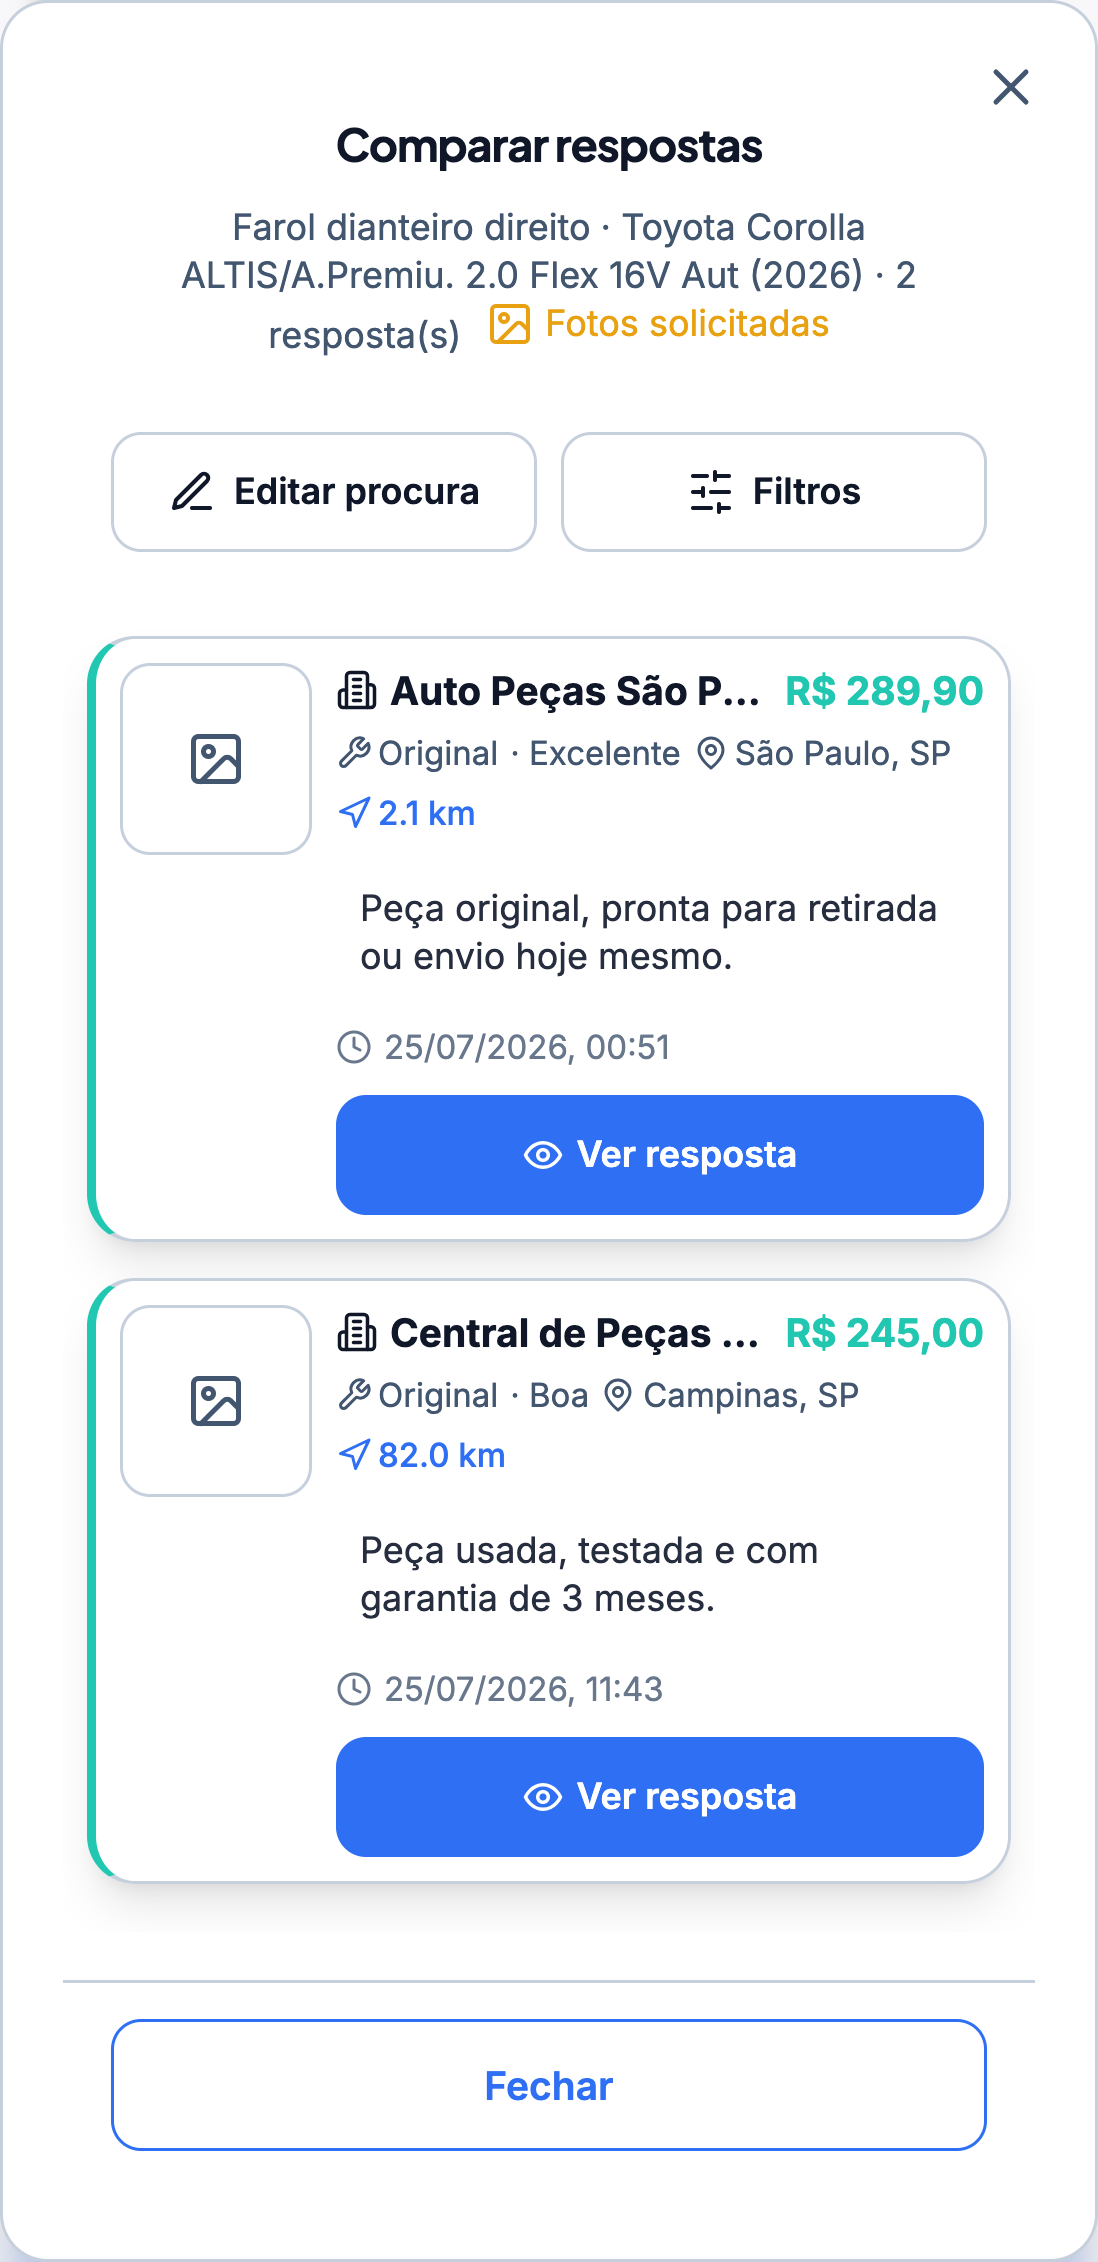
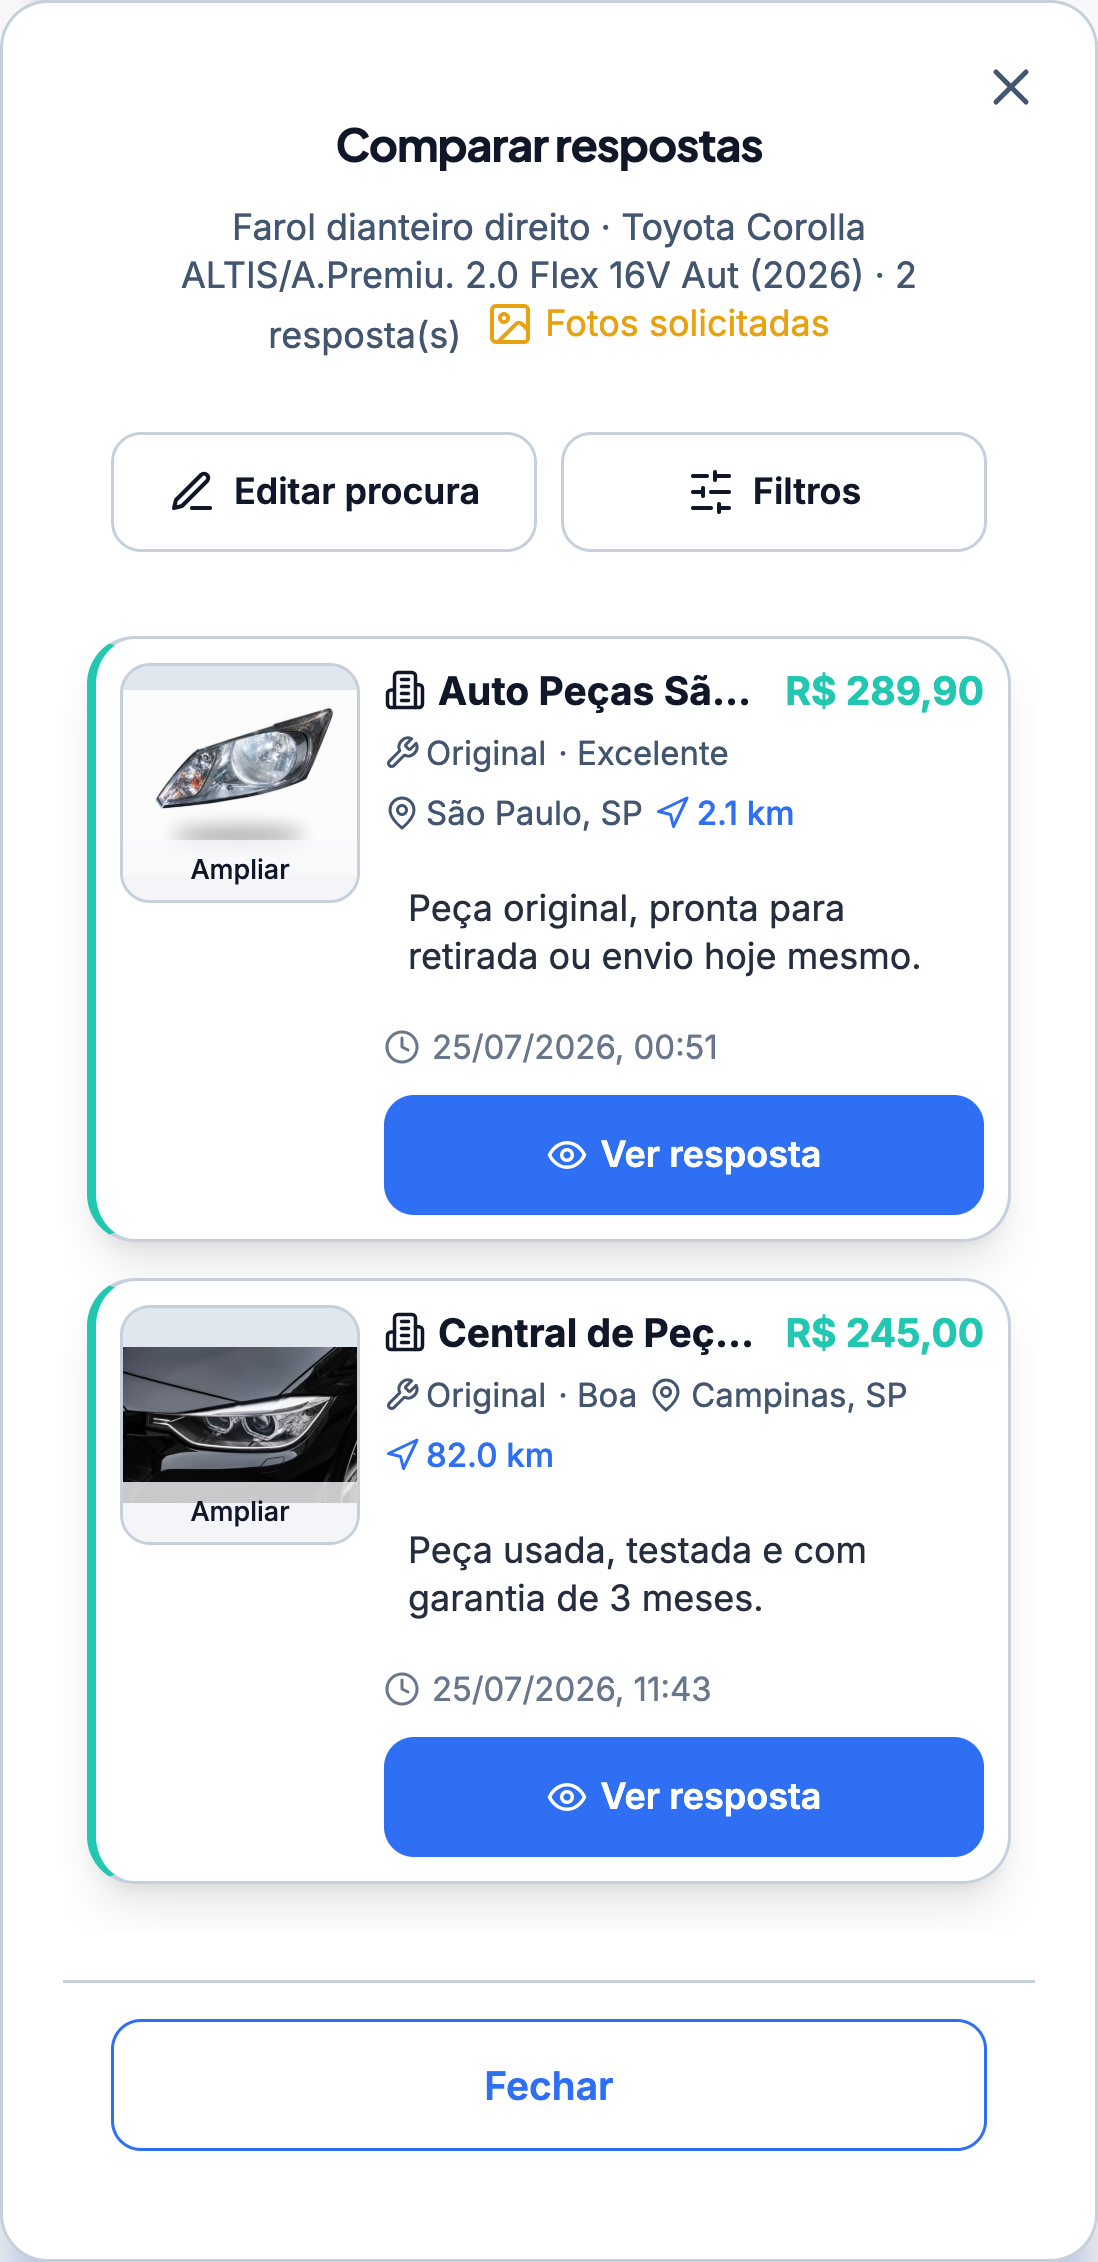
Add real part photos to compare-responses mockup, match mockup dimensions
Replaced the empty gray placeholder icons in the buyer-compare-responses
screenshot with real headlight photos (licensed Adobe Stock, free tier,
uploaded to the same part-photos Supabase bucket the app uses for real
photos), matching the demo procura ("Farol dianteiro direito"). Re-ran
the Playwright capture against the live app so the mockup PNG shows the
photos actually rendered in the ResponseModal UI, not composited after
the fact.

Fixed a real responsive-design bug in DeviceMockup: border width, corner
radius, and notch/title-bar sizing were fixed px values inside
percentage-width containers, so the smaller "secondary" mockup in each
pair looked like a different, chunkier device instead of a scaled twin.
Verified proportional consistency was near-identical after adding a
size="sm" variant, but since the two mockups in each pair are now meant
to read as equals, went further per follow-up feedback: both mockups in
each pair use the same width and the default size, so their rendered
dimensions are pixel-identical, not just proportionally close.

diff --git a/src/components/landing/DeviceMockup.jsx b/src/components/landing/DeviceMockup.jsx
@@ -1,24 +1,41 @@
 import React from 'react';
 import { cn } from '@/lib/utils';
 
-export const PhoneMockup = ({ src, alt, className }) => (
+export const PhoneMockup = ({ src, alt, size = 'lg', className }) => (
   <div className={cn('relative mx-auto w-full max-w-[220px] sm:max-w-[240px]', className)}>
-    <div className="relative rounded-[2rem] border-[6px] border-foreground/90 bg-foreground/90 p-1.5 shadow-xl">
-      <div className="absolute left-1/2 top-2 z-10 h-1.5 w-12 -translate-x-1/2 rounded-full bg-foreground/60" aria-hidden="true" />
-      <div className="aspect-[9/19.3] w-full overflow-hidden rounded-[1.5rem] bg-background">
+    <div
+      className={cn(
+        'relative bg-foreground/90',
+        size === 'lg'
+          ? 'rounded-[2rem] border-[6px] p-1.5'
+          : 'rounded-[1.4rem] border-[4px] p-1',
+        'border-foreground/90 shadow-xl',
+      )}
+    >
+      <div
+        className={cn(
+          'absolute left-1/2 top-2 z-10 -translate-x-1/2 rounded-full bg-foreground/60',
+          size === 'lg' ? 'h-1.5 w-12' : 'h-1 w-8',
+        )}
+        aria-hidden="true"
+      />
+      <div className={cn('aspect-[9/19.3] w-full overflow-hidden bg-background', size === 'lg' ? 'rounded-[1.5rem]' : 'rounded-[1rem]')}>
         <img src={src} alt={alt} className="h-full w-full object-cover object-top" loading="lazy" />
       </div>
     </div>
   </div>
 );
 
-export const BrowserMockup = ({ src, alt, className }) => (
+export const BrowserMockup = ({ src, alt, size = 'lg', className }) => (
   <div className={cn('relative mx-auto w-full max-w-md sm:max-w-lg', className)}>
-    <div className="overflow-hidden rounded-xl border border-border bg-card shadow-xl">
-      <div className="flex items-center gap-1.5 border-b border-border bg-muted px-3 py-2" aria-hidden="true">
-        <span className="h-2.5 w-2.5 rounded-full bg-foreground/20" />
-        <span className="h-2.5 w-2.5 rounded-full bg-foreground/20" />
-        <span className="h-2.5 w-2.5 rounded-full bg-foreground/20" />
+    <div className={cn('overflow-hidden border border-border bg-card shadow-xl', size === 'lg' ? 'rounded-xl' : 'rounded-lg')}>
+      <div
+        className={cn('flex items-center gap-1.5 border-b border-border bg-muted', size === 'lg' ? 'px-3 py-2' : 'px-2 py-1.5')}
+        aria-hidden="true"
+      >
+        <span className={cn('rounded-full bg-foreground/20', size === 'lg' ? 'h-2.5 w-2.5' : 'h-2 w-2')} />
+        <span className={cn('rounded-full bg-foreground/20', size === 'lg' ? 'h-2.5 w-2.5' : 'h-2 w-2')} />
+        <span className={cn('rounded-full bg-foreground/20', size === 'lg' ? 'h-2.5 w-2.5' : 'h-2 w-2')} />
       </div>
       <div className="aspect-[16/11] w-full overflow-hidden bg-background">
         <img src={src} alt={alt} className="h-full w-full object-cover object-top" loading="lazy" />

diff --git a/src/components/landing/HowItWorksSection.jsx b/src/components/landing/HowItWorksSection.jsx
@@ -15,16 +15,16 @@ const journeys = [
       'Compare as opções e inicie a conversa quando quiser.',
     ],
     mockup: (
-      <div className="mb-6 flex items-end justify-center gap-3 sm:gap-4">
+      <div className="mb-6 flex items-center justify-center gap-3 sm:gap-4">
         <PhoneMockup
           src="/images/mockups/buyer-create-procura.png"
           alt="Tela de criação de uma procura, com veículo, peça e prazo preenchidos"
-          className="w-[56%]"
+          className="w-[46%]"
         />
         <PhoneMockup
           src="/images/mockups/buyer-compare-responses.png"
           alt="Tela comparando respostas de diferentes empresas, com preço, condição e localização"
-          className="w-[40%] translate-y-5 opacity-95"
+          className="w-[46%]"
         />
       </div>
     ),
@@ -39,16 +39,16 @@ const journeys = [
       'Converse com o comprador depois que ele iniciar o chat.',
     ],
     mockup: (
-      <div className="mb-6 flex items-end justify-center gap-3 sm:gap-4">
+      <div className="mb-6 flex items-center justify-center gap-3 sm:gap-4">
         <BrowserMockup
           src="/images/mockups/company-procuras-list.png"
           alt="Tela com a lista de procuras compatíveis chegando para a empresa"
-          className="w-[62%]"
+          className="w-[46%]"
         />
         <BrowserMockup
           src="/images/mockups/company-response-form.png"
           alt="Tela de resposta da empresa, com preço, condição e foto da peça"
-          className="hidden w-[46%] translate-y-5 opacity-95 sm:block"
+          className="w-[46%]"
         />
       </div>
     ),
